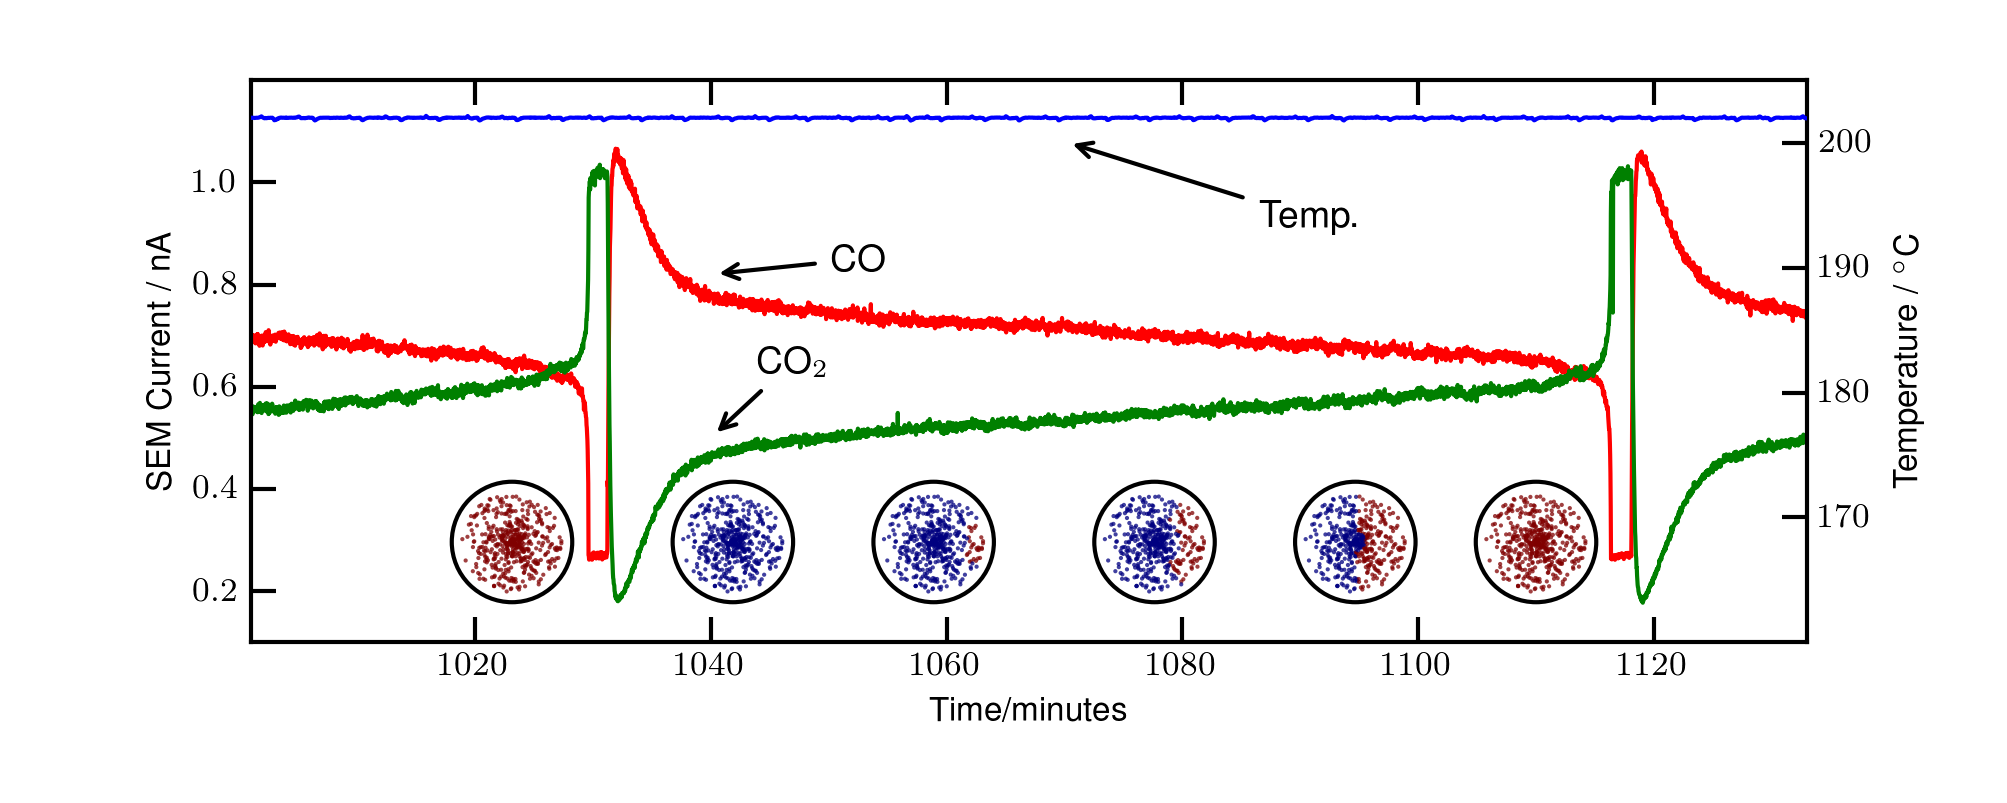
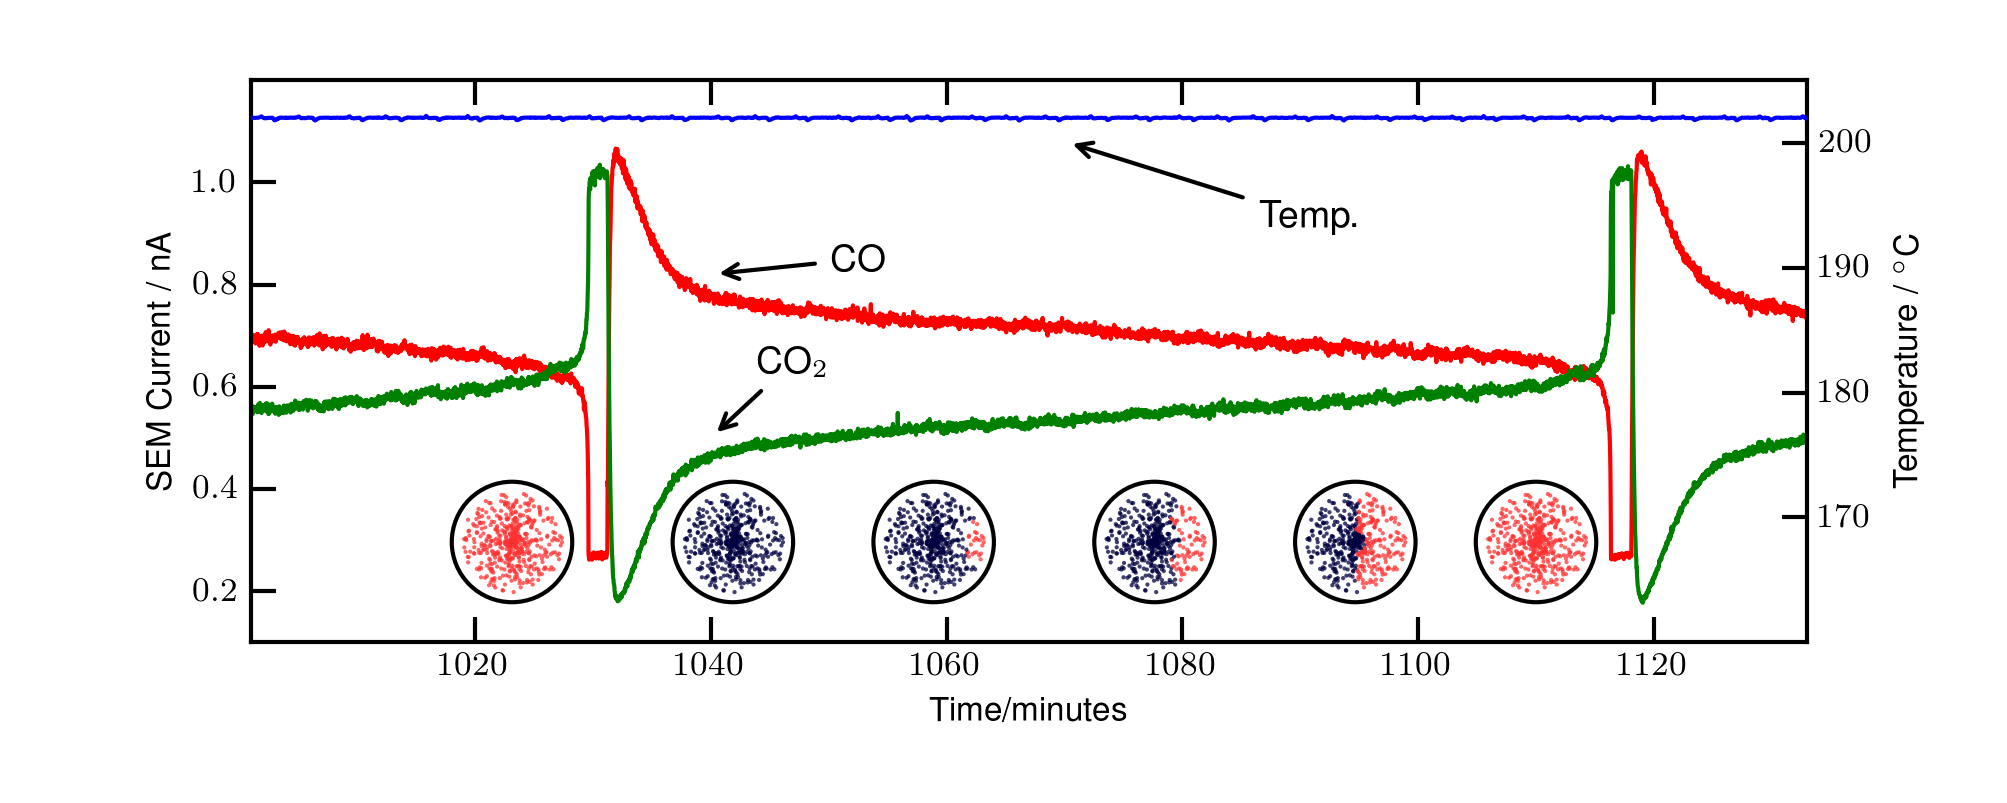
Updated the color scheme to allow printing in PCCP

diff --git a/paper.tex b/paper.tex
@@ -131,7 +131,7 @@ An example of a single very slow oscillation is seen in Figure~\ref{fgr:full_osc
 \begin{figure*}
   \centering
   \includegraphics[width=17cm]{single_full_oscillation.png}
-  \caption{A full oscillation period first showing a steep increase in activity followed by an almost immediate deactivation. For the next 65 minutes the sample slowly recovers activity until full conversion is reached again and the cycle repeats itself. This extremely long oscillation period is not commonly seen and was a result of careful parameter tuning. Typical oscillation periods are normally between $\sim$30\,s and $\sim$30\,min. Inserted circles illustrates the proposed model. At high conversion the platinum is oxidized (red) while in low conversion the sample is reduced (blue).}
+  \caption{A full oscillation period first showing a steep increase in activity followed by an almost immediate deactivation. For the next 65 minutes the sample slowly recovers activity until full conversion is reached again and the cycle repeats itself. This extremely long oscillation period is not commonly seen and was a result of careful parameter tuning. Typical oscillation periods are normally between $\sim$30\,s and $\sim$30\,min. Inserted circles illustrates the proposed model. At high conversion the platinum is oxidized (bright spots) while in low conversion the sample is reduced (dark spots).}
   \label{fgr:full_oscillation}
 \end{figure*}
 

diff --git a/python_figures/single_full_oscillation.py b/python_figures/single_full_oscillation.py
@@ -73,7 +73,7 @@ positions.append([.6, .25, .15, .15])
 positions.append([.69, .25, .15, .15])
 
 oxide = []
-oxide.append([0.001,3.14])
+oxide.append([0.002,3.14])
 oxide.append([1,0])
 oxide.append([0.7,0.5])
 oxide.append([0.5,1])
@@ -84,17 +84,19 @@ N = 500
 R = np.random.rand(N)
 Theta = np.random.rand(N)*2*np.pi
 area = 0.8
-colors = np.zeros((N,len(positions)))
 
 j = 0
 for pos in positions:
+    colors = []
     a = plt.axes(pos, axisbg='w',polar=True)
     print oxide[j][0]
     for i in range(0,N):
         if (R[i]>oxide[j][0]) and ((Theta[i] < oxide[j][1]) or (Theta[i] > 2*np.pi - oxide[j][1])):
-            colors[i][j] = 1
+            colors.append((1,0.2,0.2))
+        else:
+            colors.append((0,0,0.25))
             
-    c = plt.scatter(Theta, R, c=colors[:,j], s=area, linewidths=0)
+    c = plt.scatter(Theta, R, c=colors, s=area, linewidths=0)
     c.set_alpha(0.75)
     plt.setp(a, xticks=[], yticks=[])
     j = j + 1
